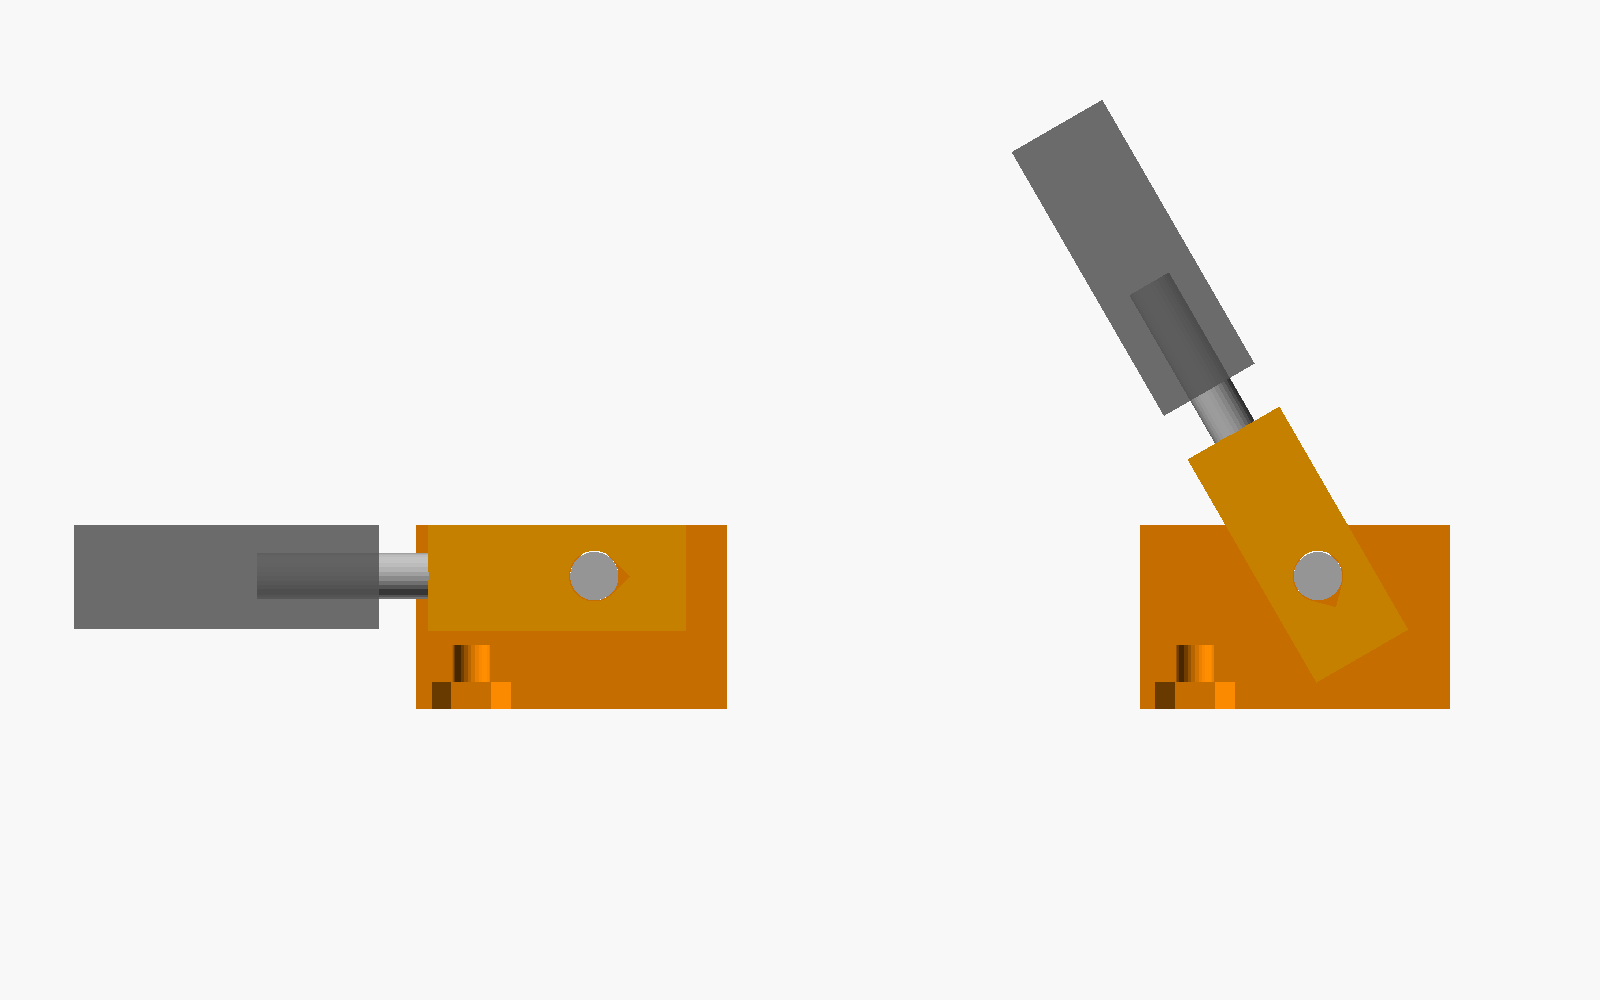
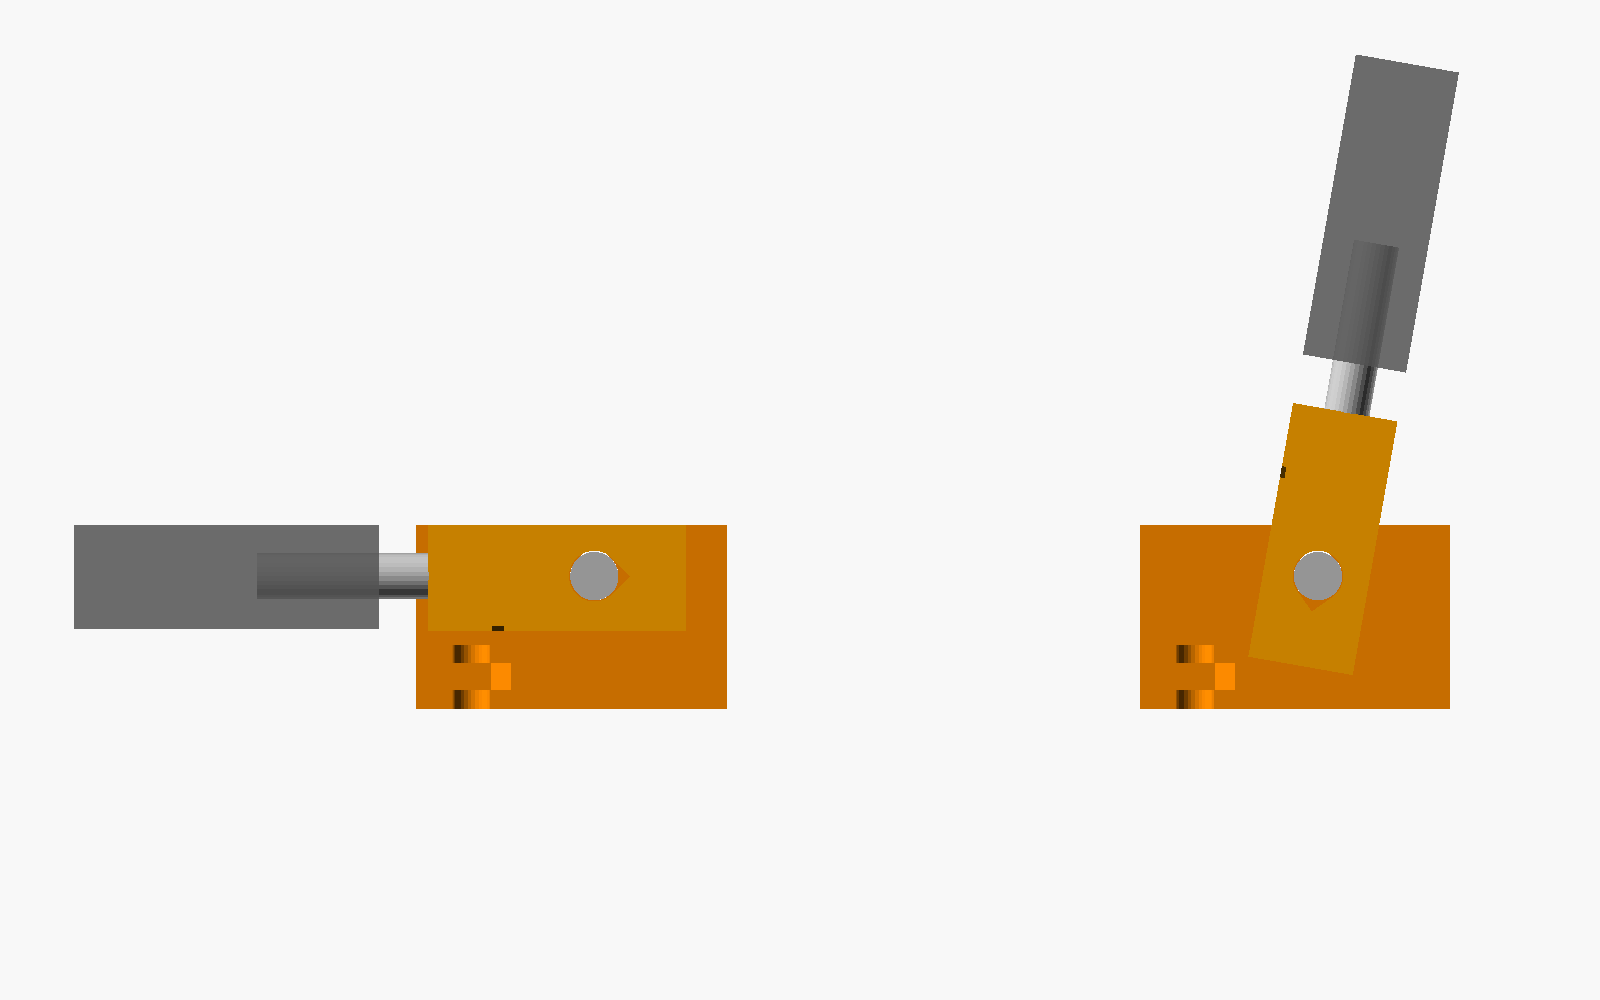
VSM Base v49: printed hinge stops at 100 degrees, like a lollipop
From Bob's measurements of a 99K on lollipop hinges: the knuckle stops it
at about 100 degrees, servicing wants about 90, the balance point is about
55, and the base tips up beyond. The stop moves from 60 to 100 degrees;
since the base tips first, the stop's load stays a few N.m. Block size
unchanged; sweep clear of the base. Guide: the stop paragraph, and the
hinge picture at 100 degrees.

Claude-Session: https://claude.ai/code/session_01D8rC2JDyb9T3n3ujD2pgX4

Changed region(s): [[0.625, 0.031, 0.9062, 0.527], [0.25, 0.651, 0.3438, 0.713], [0.7188, 0.651, 0.7812, 0.713]]

diff --git a/docs/guide/04-configuring.md b/docs/guide/04-configuring.md
@@ -63,15 +63,19 @@
 > The arm runs on past the pivot into a short tail (`ph_tail`, 12 mm). When
 > the machine is tipped back, the tail swings down into a pocket in the
 > block and comes to rest on its floor, so the machine stops at about
-> `ph_stop_angle` (60°) instead of falling back onto the table; nothing of
-> the stop stands above the arm. The stop
-> takes the machine's weight leaning back through the pins, and the
-> further past upright the machine leans, the harder it presses: a 30 lb
-> machine at 60° presses each stop with a few hundred newtons, which the
-> parts are sized for, but don't let the machine drop onto the stop. Set
-> `ph_stop_angle` between 45° and 110°, or 0 for no stop. Check that
-> nothing on your machine (a motor behind the arm, say) reaches the base's
-> back rim before the stop. Print the hinges in PETG or another tough
+> `ph_stop_angle` (100°), where a Singer lollipop hinge's knuckle stops a
+> 99K; nothing of the stop stands above the arm. That is far enough to
+> service the machine's underside at about 90°. On the way there the
+> machine passes its balance point (about 55° on a 99K), where it takes the
+> least effort to hold, and past about 75° the machine's weight behind the
+> base outweighs the base, so the base starts to tip up unless you hold the
+> machine or brace its arm (on a 99K at 90°, about 6" above the table
+> behind). Because the base tips first, the stop never has to hold more
+> than a few newton-metres, well within the pins and the plastic; don't
+> drop the machine onto it all the same. Set `ph_stop_angle` between 45°
+> and 110°, or 0 for no stop. Check that nothing on your machine reaches
+> the base's back rim before the stop. Print the hinges in PETG or another
+> tough
 > filament; their rods are cut-to-length steel rod or dowel pins. The pin's
 > diameter and how far it goes into the hole come from the machine profile
 > (1/4" and 12 mm for the 99K, 6 mm and 16 mm for the Kenmore 158-14001), unless

diff --git a/docs/guide/90-parameters.md b/docs/guide/90-parameters.md
@@ -285,7 +285,7 @@ There are 465 parameters; 463 of them appear in the Customizer. The rest are lis
 | `ph_web` | `4` | Base web left between the bed seat and the hinge recess *Range 2 to 10, step 0.5.* |
 | `ph_floor` | `3` | Block floor under the arm *Range 2 to 8, step 0.5.* |
 | `ph_recess_clear` | `0.2` | Fit of the block in its recess, each side *Range 0 to 0.6, step 0.05.* |
-| `ph_stop_angle` | `60` | Tilt-back stop: a tail on the arm, behind the pivot, comes to rest in the block at about this angle (0 = no stop, 45 to 110) *Range 0 to 110, step 1.* |
+| `ph_stop_angle` | `100` | Tilt-back stop: a tail on the arm, behind the pivot, comes to rest in the block at about this angle (0 = no stop, 45 to 110). 100 matches a Singer lollipop hinge's knuckle; the machine passes its balance point (about 55 degrees on a 99K) well before, and past about 75 degrees the base itself starts to tip up unless the machine is held or braced *Range 0 to 110, step 1.* |
 | `ph_tail` | `12` | Tail length behind the pivot (longer: less force on the stop, deeper block) *Range 6 to 25, step 0.5.* |
 | `ph_min_cover` | `2.5` | Least plastic over the rods where the arm and cheeks are cut down to the rim *Range 1.5 to 5, step 0.25.* |
 | `ph_test_step` | `0.1` | Rod-fit test (part printed_hinge_test): the step between its five holes, around ph_press (0.05 for a finer second bar) *Range 0.02 to 0.2, step 0.01.* |
